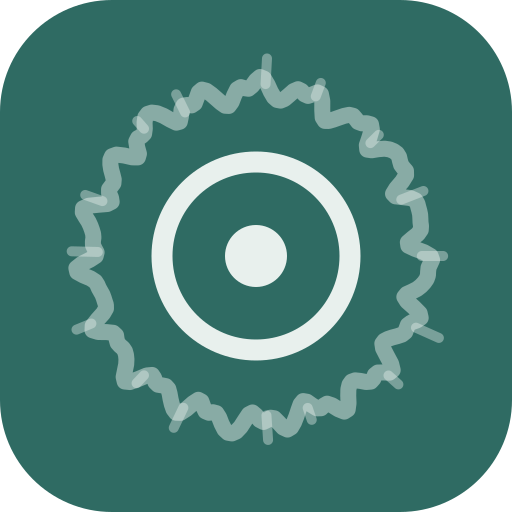
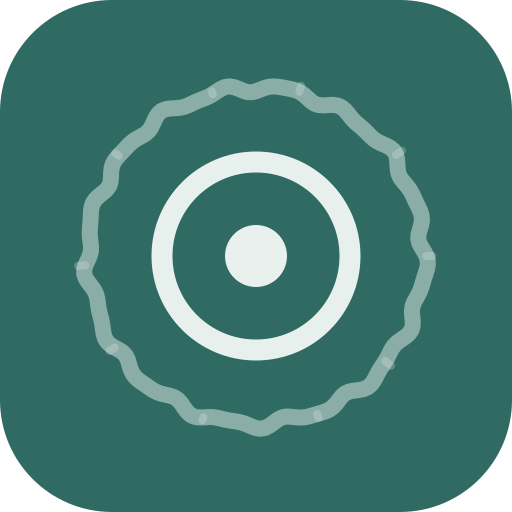
Soften the outer ring so radio noise stays visible but quieter.
The mark still reads as interference around a clear inner circle, without the previous strong wobble and long ticks.

Changed region(s): [[0.125, 0.0938, 0.875, 0.875]]

diff --git a/src/components/practice-icons.tsx b/src/components/practice-icons.tsx
@@ -216,8 +216,8 @@ export function IconStar({
 export function IconBrand(props: IconProps) {
   return (
     <BaseIcon {...props}>
-      <path d="M20.52 12.00 L20.77 12.39 L20.87 12.80 L20.78 13.19 L20.51 13.54 L20.12 13.85 L19.70 14.13 L19.36 14.39 L19.14 14.68 L19.06 15.02 L19.08 15.41 L19.14 15.84 L19.14 16.27 L19.05 16.65 L18.82 16.95 L18.49 17.17 L18.11 17.34 L17.74 17.49 L17.44 17.69 L17.22 17.97 L17.07 18.35 L16.93 18.79 L16.77 19.23 L16.53 19.58 L16.19 19.79 L15.77 19.83 L15.30 19.72 L14.83 19.53 L14.39 19.36 L14.01 19.29 L13.68 19.36 L13.38 19.58 L13.07 19.89 L12.74 20.21 L12.38 20.45 L12.00 20.54 L11.62 20.48 L11.25 20.30 L10.91 20.07 L10.57 19.87 L10.23 19.76 L9.86 19.76 L9.45 19.85 L9.01 19.95 L8.58 19.99 L8.20 19.90 L7.89 19.64 L7.67 19.25 L7.53 18.77 L7.42 18.30 L7.29 17.91 L7.07 17.64 L6.75 17.49 L6.33 17.42 L5.86 17.37 L5.40 17.26 L5.02 17.07 L4.78 16.77 L4.66 16.38 L4.65 15.96 L4.66 15.53 L4.64 15.15 L4.51 14.81 L4.29 14.51 L4.00 14.21 L3.71 13.89 L3.50 13.54 L3.45 13.16 L3.56 12.76 L3.81 12.37 L4.12 12.00 L4.39 11.66 L4.54 11.33 L4.53 10.99 L4.37 10.62 L4.13 10.20 L3.89 9.76 L3.76 9.32 L3.78 8.92 L3.98 8.57 L4.31 8.29 L4.70 8.07 L5.07 7.86 L5.36 7.62 L5.55 7.31 L5.67 6.95 L5.76 6.55 L5.89 6.15 L6.10 5.83 L6.43 5.62 L6.84 5.53 L7.30 5.52 L7.74 5.54 L8.12 5.50 L8.42 5.35 L8.65 5.05 L8.85 4.64 L9.06 4.18 L9.32 3.76 L9.65 3.48 L10.03 3.37 L10.45 3.44 L10.87 3.64 L11.27 3.87 L11.64 4.06 L12.00 4.14 L12.35 4.10 L12.72 3.97 L13.11 3.82 L13.50 3.73 L13.88 3.77 L14.22 3.95 L14.52 4.25 L14.78 4.60 L15.03 4.91 L15.31 5.12 L15.66 5.20 L16.08 5.17 L16.56 5.09 L17.06 5.04 L17.51 5.09 L17.86 5.29 L18.09 5.63 L18.19 6.08 L18.21 6.58 L18.22 7.04 L18.29 7.43 L18.46 7.73 L18.74 7.97 L19.09 8.18 L19.44 8.42 L19.72 8.70 L19.87 9.05 L19.89 9.44 L19.80 9.85 L19.70 10.24 L19.64 10.61 L19.70 10.96 L19.90 11.29 L20.19 11.63 Z" opacity={0.42} />
-      <path d="M20.20 12.00 L21.16 12.00 M18.90 16.43 L20.06 17.17 M16.54 18.83 L16.92 19.41 M11.70 20.19 L11.68 20.91 M7.80 19.04 L7.09 20.23 M5.13 16.48 L4.36 16.99 M3.81 11.51 L3.26 11.48 M4.80 8.07 L3.70 7.47 M7.71 5.01 L7.09 4.01 M12.49 3.81 L12.53 3.29 M15.72 4.69 L16.18 3.78 M19.14 7.97 L20.32 7.31" opacity={0.38} />
+      <path d="M20.30 12.00 L20.36 12.38 L20.28 12.75 L20.16 13.11 L20.07 13.46 L19.94 13.81 L19.77 14.14 L19.64 14.48 L19.63 14.86 L19.67 15.28 L19.60 15.66 L19.33 15.95 L18.99 16.18 L18.72 16.44 L18.54 16.75 L18.36 17.07 L18.15 17.37 L17.95 17.68 L17.76 18.02 L17.52 18.32 L17.17 18.49 L16.76 18.55 L16.39 18.65 L16.12 18.90 L15.89 19.23 L15.61 19.49 L15.27 19.65 L14.91 19.76 L14.56 19.87 L14.19 19.92 L13.80 19.88 L13.43 19.86 L13.08 19.99 L12.74 20.23 L12.38 20.40 L12.00 20.38 L11.63 20.23 L11.27 20.09 L10.91 20.03 L10.55 19.97 L10.20 19.89 L9.83 19.85 L9.44 19.88 L9.04 19.87 L8.71 19.71 L8.45 19.38 L8.20 19.06 L7.89 18.88 L7.52 18.78 L7.16 18.66 L6.84 18.47 L6.54 18.25 L6.25 18.02 L6.00 17.73 L5.86 17.37 L5.75 16.99 L5.54 16.70 L5.19 16.49 L4.84 16.28 L4.62 15.97 L4.52 15.60 L4.46 15.22 L4.36 14.87 L4.28 14.51 L4.23 14.14 L4.14 13.79 L3.93 13.46 L3.70 13.12 L3.61 12.76 L3.72 12.37 L3.90 12.00 L3.98 11.64 L3.95 11.28 L3.91 10.90 L3.93 10.54 L3.95 10.16 L3.96 9.78 L4.04 9.41 L4.28 9.10 L4.59 8.83 L4.82 8.54 L4.89 8.18 L4.91 7.77 L5.03 7.40 L5.27 7.11 L5.54 6.85 L5.80 6.58 L6.09 6.35 L6.43 6.17 L6.73 5.97 L6.95 5.66 L7.12 5.28 L7.36 4.97 L7.71 4.82 L8.12 4.79 L8.49 4.71 L8.82 4.57 L9.15 4.40 L9.49 4.27 L9.82 4.11 L10.15 3.89 L10.50 3.73 L10.88 3.73 L11.27 3.89 L11.64 4.02 L12.00 3.98 L12.37 3.84 L12.74 3.76 L13.11 3.78 L13.48 3.84 L13.85 3.91 L14.20 4.04 L14.51 4.28 L14.81 4.52 L15.15 4.63 L15.56 4.60 L15.97 4.62 L16.30 4.80 L16.56 5.10 L16.80 5.39 L17.07 5.65 L17.33 5.90 L17.58 6.16 L17.86 6.40 L18.21 6.58 L18.57 6.76 L18.80 7.06 L18.88 7.46 L18.92 7.87 L19.06 8.20 L19.30 8.48 L19.54 8.78 L19.71 9.10 L19.88 9.44 L20.04 9.78 L20.13 10.14 L20.07 10.54 L19.95 10.92 L19.94 11.29 L20.10 11.64 Z" opacity={0.38} />
+      <path d="M20.30 12.00 L20.62 12.00 M18.32 17.13 L18.63 17.39 M14.99 19.73 L15.08 19.96 M9.43 19.88 L9.37 20.06 M3.68 12.46 L3.29 12.48 M9.88 4.07 L9.83 3.88 M14.11 4.00 L14.20 3.67 M18.81 7.08 L19.12 6.86" opacity={0.26} />
       <circle cx="12" cy="12" r="4.15" />
       <circle cx="12" cy="12" r="1.55" fill="currentColor" stroke="none" />
     </BaseIcon>
